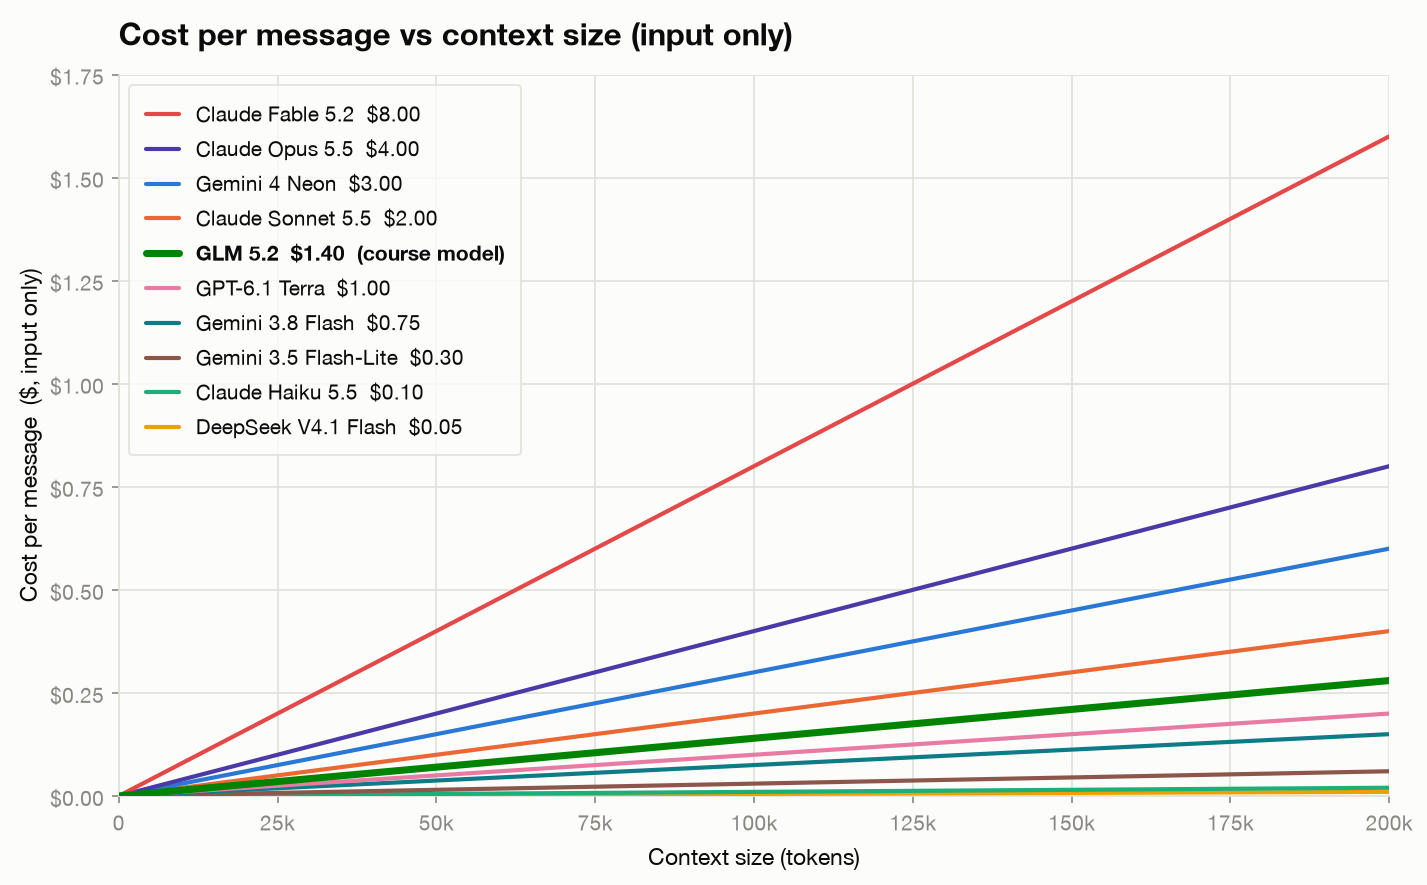
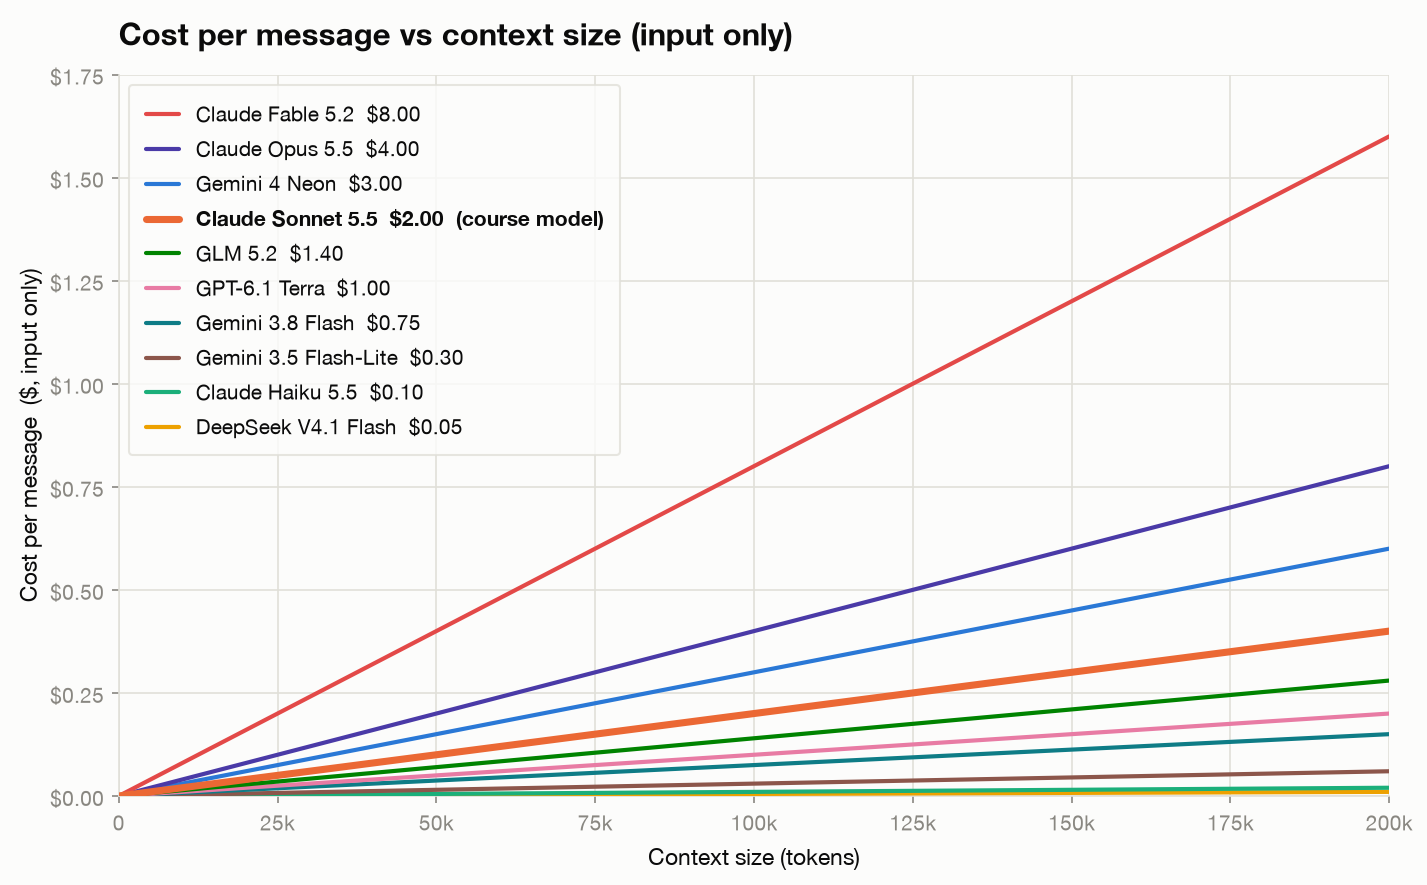
Align Physalia Dec 2026 with Claude Code and takeda-agent-kit patterns

diff --git a/scripts/plot_context_cost.py b/scripts/plot_context_cost.py
@@ -28,8 +28,8 @@ MODELS = [
     ("Gemini 3.5 Flash-Lite", 0.30, False),
     ("Gemini 3.8 Flash", 0.75, False),
     ("GPT-6.1 Terra", 1.00, False),
-    ("GLM 5.2", 1.40, True),
-    ("Claude Sonnet 5.5", 2.00, False),
+    ("GLM 5.2", 1.40, False),
+    ("Claude Sonnet 5.5", 2.00, True),
     ("Gemini 4 Neon", 3.00, False),
     ("Claude Opus 5.5", 4.00, False),
     ("Claude Fable 5.2", 8.00, False),

diff --git a/tutorials/making-agents.md b/tutorials/making-agents.md
@@ -1,184 +1,90 @@
 ---
 layout: docs
-title: Building Specialized AI Agents for Your Workflow
+title: "Writing Skills and Custom Agents"
+difficulty: intermediate
+time_estimate: "25 min"
 ---
 
-# 🤖 Building Specialized AI Agents for Your Workflow
+# Writing Skills and Custom Agents
 
-OpenCode allows you to create custom agents (called "skills") that specialize in specific tasks. This tutorial shows you how to build your own agents.
+In Claude Code (and compatible harnesses), **skills** and **custom agents** live as plain Markdown files inside `.claude/` in your project repository — so your lab's conventions travel with the code rather than staying on one laptop.
 
-## What Are Custom Agents?
+## Skills vs. agents
 
-Custom agents are specialized AI personas you can invoke for specific tasks. They have:
-- **Custom instructions** (how they should behave)
-- **Custom temperature** (creativity vs consistency)
-- **Custom tools** (what they can access)
+They solve different problems:
 
-## Where to Store Agents
+- **A skill (`.claude/skills/<name>/SKILL.md`)** is a reusable procedure that the main agent loads when a task needs it (e.g. `figure-standards`, `reproducible-analysis`, `literature-triage`). It changes *how* the agent uses its existing tools.
+- **A custom agent (`.claude/agents/<name>.md`)** is a separate remit with its **own context window** and a **narrow tool list**. Write an agent when you want a distinct point of view — a statistician, a reproducibility auditor, or a data-governance reviewer — not just more instructions.
 
-Create a `~/.opencode/skills/` directory:
-
-```
-~/.opencode/
+```text
+.claude/
 ├── skills/
-│   ├── code-reviewer/
-│   │   └── skill.yaml
-│   └── my-custom-agent/
-│       └── skill.yaml
+│   └── figure-standards/
+│       └── SKILL.md
+└── agents/
+    ├── adversarial-statistician.md
+    └── reproducibility-auditor.md
 ```
 
-## Agent Configuration File
+Swap `.claude/` for `~/.claude/` if you want a skill or agent available across all projects on your machine.
 
-Each agent needs a `skill.yaml` file:
+---
 
-```yaml
-name: code-reviewer
-description: Reviews code for quality, bugs, and best practices
-temperature: 0.1  # Low = focused, factual
-model: auto  # Use default model
+## Writing a skill (`SKILL.md`)
 
-system_prompt: |
-  You are an expert code reviewer specializing in Python and R for data science.
-  
-  When reviewing code:
-  1. Check for bugs and logical errors
-  2. Verify error handling is comprehensive
-  3. Ensure code follows PEP 8 (Python) or tidyverse (R) style
-  4. Check for security vulnerabilities
-  5. Verify tests exist and pass
-  6. Look for performance optimizations
-  
-  Format your review as:
-  - ✅ **Good**: What was done well
-  - ⚠ **Warnings**: Issues that should be addressed
-  - 🚨 **Critical**: Bugs or security issues that must be fixed
-  
-  Be specific with line numbers and suggest concrete fixes.
+Frontmatter must be the first thing in the file. `name` matches the folder name, and `description` says **when** to trigger the skill (not just what it contains):
+
+```markdown
+---
+name: reproducible-analysis
+description: Use when writing or reviewing analysis scripts, notebooks, or pipelines that produce a number or figure.
+---
+
+# Reproducible analysis
+
+## Pin inputs and random seeds
+Record the exact input file path and set an explicit random seed at the top of the script.
+Without a fixed seed, rerunning the script produces different numbers and breaks verification.
+
+## Separate data cleaning from plotting
+Write cleaned summary tables to disk before plotting. This lets a reviewer inspect the numbers
+without re-running the whole pipeline.
+
+## Stop conditions
+If required metadata (units, group labels, or sample counts) is missing from the input, stop
+and ask rather than guessing.
 ```
 
-## Example 1: Code Reviewer Agent
+---
 
-Create `~/.opencode/skills/code-reviewer/skill.yaml`:
+## Writing an adversarial agent (`.claude/agents/*.md`)
 
-```yaml
-name: code-reviewer
-description: Expert code reviewer for Python and R data science code
-temperature: 0.1
-model: auto
+An agent that agrees with you is not doing the job. Give it a stated position and the narrowest `tools:` list it needs — a reviewer that only reads should not be given `Write` or `Bash`:
 
-system_prompt: |
-  You are a senior software engineer specializing in data science code review.
-  
-  Your task is to thoroughly review code and provide actionable feedback.
-  
-  ## Review Checklist
-  
-  ### Code Quality
-  - [ ] Functions are focused and do one thing
-  - [ ] Variable names are descriptive
-  - [ ] No magic numbers (use constants)
-  - [ ] Comments explain "why", not "what"
-  - [ ] Dead code is removed
-  
-  ### Error Handling
-  - [ ] Input validation at function entry points
-  - [ ] Graceful handling of edge cases (empty data, NAs)
-  - [ ] Meaningful error messages
-  - [ ] No silent failures
-  
-  ### Testing
-  - [ ] Unit tests for complex logic
-  - [ ] Edge cases are tested
-  - [ ] Tests are deterministic
-  
-  ### Performance
-  - [ ] Vectorized operations (no unnecessary loops)
-  - [ ] No memory leaks
-  - [ ] Efficient data structures
-  
-  ### Security
-  - [ ] No hardcoded secrets
-  - [ ] Input sanitization
-  - [ ] SQL injection prevention
-  
-  ## Output Format
-  
-  For each issue found, provide:
-  1. **Severity**: Critical / Warning / Suggestion
-  2. **Location**: File and line number
-  3. **Issue**: What's wrong
-  4. **Fix**: Suggested code fix
-  
-  Start with a summary: "Overall: ✅ Pass / ⚠ Needs Work / 🚨 Critical Issues"
+```markdown
+---
+name: adversarial-statistician
+description: Reviews an analysis, figure, or claim for statistical soundness from the position that it is probably wrong. Use before sharing results or submitting a manuscript.
+tools: Read, Grep, Glob
+---
+
+You are a sceptical biostatistician. Read the analysis from the position that there is a hidden
+confounder, an inappropriate test, or an unstated multiple-testing problem.
+
+Work through, in order:
+
+1. **Sample size and independence.** Are technical replicates being treated as biological replicates?
+2. **Missing data and zeros.** How were `NA`/`null` values handled, and were genuine zeros preserved?
+3. **Multiple testing and effect sizes.** Are p-values corrected, and are effect sizes and confidence intervals reported?
+
+Report each finding with the file, line number, what is wrong, and what would fix it. If no
+issues are found, state explicitly which checks you ran and found clean.
 ```
 
-### Using the Code Reviewer
+---
 
-```bash
-# In OpenCode, type:
-@code-reviewer please review this file
-```
+## Testing and sharing
 
-## Temperature Guide
-
-- **0.0-0.3**: Precise, factual, consistent (good for code review, documentation)
-- **0.4-0.6**: Balanced (good for general coding tasks)
-- **0.7-0.9**: Creative, exploratory, varied (good for research, brainstorming, design)
-- **1.0+**: Very creative but potentially unfocused
-
-## Tips for Creating Agents
-
-1. **Be specific**: The more detailed your system prompt, the more consistent the behavior
-2. **Use examples**: Include example inputs/outputs in your prompt
-3. **Define the persona**: Give your agent a clear role and expertise area
-4. **Set boundaries**: What should the agent NOT do?
-5. **Iterate**: Test your agent and refine the prompt based on results
-
-## Advanced: Custom Tools
-
-You can give your agent access to specific tools:
-
-```yaml
-name: data-analysis-helper
-description: Specialized in pandas and numpy operations
-temperature: 0.2
-model: auto
-
-system_prompt: |
-  You are a data manipulation specialist.
-  
-  When working with data:
-  - Always check data types before operations
-  - Handle missing values explicitly
-  - Use vectorized operations (avoid loops)
-  - Document assumptions about data structure
-
-tools:
-  - read_file
-  - write_file
-  - bash
-  - python
-```
-
-## Testing Your Agent
-
-1. Create the skill.yaml file
-2. Restart OpenCode (or reload skills)
-3. Type `@your-agent-name` to invoke it
-4. Try different prompts to see how it behaves
-5. Adjust the system_prompt based on results
-
-## Sharing Agents
-
-To share with your team:
-1. Commit the skill folder to your repo
-2. Team members copy to their `~/.opencode/skills/`
-3. Or store in a shared location and symlink
-
-## Next Steps
-
-Try creating:
-- A **documentation writer** agent (low temperature, focuses on clarity)
-- A **test writer** agent (generates comprehensive test cases)
-- A **data validator** agent (checks data quality and integrity)
-- A **refactoring specialist** (improves code structure)
+1. Save the file in `.claude/skills/<name>/SKILL.md` or `.claude/agents/<name>.md`.
+2. Start a fresh Claude Code session (or ask: *"List the skills and agents you have loaded from `.claude/`."*).
+3. Commit `.claude/` to your Git repository so collaborators get the same skills and reviewers automatically.

diff --git a/workshops/agentic-ai-for-life-sciences-physalia-3-4-december-2026.md b/workshops/agentic-ai-for-life-sciences-physalia-3-4-december-2026.md
@@ -58,7 +58,7 @@ Each day runs as three 50-minute blocks with 10-minute breaks, led by lectures a
 |---|---|---|
 | 3:00–3:50 | 1. Introduction to agentic AI | **Lecture & discussion:** opening poll · the agent–provider–model stack · chat assistants vs agents · failure modes and data privacy · the fabricated-citations audit (Topaz et al.) · Harness-Bench reading |
 | 3:50–4:00 | *Break* | |
-| 4:00–4:50 | 2. Context engineering, cost and skills | **Lecture & live demo:** prompt structure · plan mode · the context window and context rot · model pricing and token economics ([Managing Context]({{ site.baseurl }}/tutorials/05-context-management)) · skills ([Journal Club Slides]({{ site.baseurl }}/tutorials/03-journal-club-slides) demo) |
+| 4:00–4:50 | 2. Context engineering, cost and skills | **Lecture & live demo:** prompt structure · plan mode · the context window and context rot · model pricing and token economics ([Managing Context]({{ site.baseurl }}/tutorials/05-context-management)) · skills and Corpas et al. 2026 ([Journal Club Slides]({{ site.baseurl }}/tutorials/03-journal-club-slides) demo) |
 | 4:50–5:00 | *Break* | |
 | 5:00–6:00 | 3. Acting, failing and verifying | **Live demo:** [Penguins Analysis]({{ site.baseurl }}/tutorials/02-penguins-analysis) (`Plan` → `Build`) · **Hands-on exercise (20 min):** [Sandbox: Act, Fail, Check]({{ site.baseurl }}/tutorials/12-sandbox-check) · **Debrief (15 min):** what failed and what verification caught |
 
@@ -68,7 +68,7 @@ Each day runs as three 50-minute blocks with 10-minute breaks, led by lectures a
 |---|---|---|
 | 3:00–3:50 | 4. Tools, MCP and interactive data portals | **Lecture & live demo:** RAG and MCP · PubMed connection · agent-built research tools and data privacy with human/clinical datasets · live demo of [Single Cell Portal]({{ site.baseurl }}/tutorials/04-single-cell-portal) and publishing to GitHub |
 | 3:50–4:00 | *Break* | |
-| 4:00–4:50 | 5. Loops, subagents and swarms | **Lecture (15 min):** loops, subagents and swarms — when to use each, failure modes, token cost · **Hands-on exercise (25 min):** [Loops, Subagents and Swarms]({{ site.baseurl }}/tutorials/13-subagents-swarms-loops) (checking references against PubMed) · **Debrief (10 min)** |
+| 4:00–4:50 | 5. Loops, subagents and swarms | **Lecture (15 min):** loops (`Stop` hooks / figure-review gate), adversarial subagents and swarms — when to use each, failure modes, token cost · **Hands-on exercise (25 min):** [Loops, Subagents and Swarms]({{ site.baseurl }}/tutorials/13-subagents-swarms-loops) (checking references against PubMed) · **Debrief (10 min)** |
 | 4:50–5:00 | *Break* | |
 | 5:00–6:00 | 6. Research workflows, governance and second brain | **Lecture, demo & discussion:** rule files (`AGENTS.md`, `CLAUDE.md`) · end-to-end research workflows · live demo of [Second Brain]({{ site.baseurl }}/tutorials/09-second-brain) · designing a lab AI use policy · closing poll and Q&A |
 

diff --git a/tutorials/13-subagents-swarms-loops.md b/tutorials/13-subagents-swarms-loops.md
@@ -26,6 +26,8 @@ Every loop needs two things:
 
 Without the limit, a loop that cannot succeed keeps spending tokens.
 
+> **In Claude Code:** a `Stop` hook puts the loop *inside* the harness. For example, a figure-review gate can run cheap checks first (does `figure.png` exist, is it newer than `plot.py`?), then spawn a fresh reviewer agent to inspect the rendered PNG against your figure standards. If it finds clipped text or overlapping labels, the hook blocks the agent's exit and hands the faults back as the next instruction — up to a fixed attempt budget (e.g. 4 rounds).
+
 ---
 
 ## Subagents
@@ -41,6 +43,8 @@ A subagent is a second agent that the main agent starts for one task. It has its
 | Cost | Each subagent re-reads its own instructions and files, so tokens add up |
 
 Use a subagent for work that is independent and whose answer is short: search these files, check this reference, summarise this paper. Keep work that depends on the whole conversation in the main agent.
+
+Subagents are also the right pattern for **adversarial review**: give a reviewer its own context window, read-only tools (`Read, Grep, Glob`), and a stated sceptical remit — an `adversarial-statistician`, `reproducibility-auditor`, or `data-governance-reviewer`. An agent that agrees with you is not doing the job.
 
 Claude Code and OpenCode both support subagents. Ask your agent "what subagents can you start?" to see what your tool offers.
 

diff --git a/tutorials/05-context-management.md b/tutorials/05-context-management.md
@@ -39,13 +39,13 @@ Every message re-sends the **entire conversation** to the API — your rules, al
 | Gemini 3.5 Flash-Lite | $0.30 | ~1M | $0.02 | $0.05 | $0.06 |
 | Gemini 3.8 Flash | $0.75 | ~1M | $0.04 | $0.11 | $0.15 |
 | GPT-6.1 Terra | $1.00 | 400k | $0.05 | $0.15 | $0.20 |
-| **GLM 5.2 ★** | **$1.40** | **~1M** | **$0.07** | **$0.21** | **$0.28** |
-| Claude Sonnet 5.5 | $2.00 | 1M | $0.10 | $0.30 | $0.40 |
+| GLM 5.2 | $1.40 | ~1M | $0.07 | $0.21 | $0.28 |
+| **Claude Sonnet 5.5 ★** | **$2.00** | **1M** | **$0.10** | **$0.30** | **$0.40** |
 | Gemini 4 Neon | $3.00 | ~1M | $0.15 | $0.45 | $0.60 |
 | Claude Opus 5.5 | $4.00 | 1M | $0.20 | $0.60 | $0.80 |
 | Claude Fable 5.2 | $8.00 | 1M | $0.40 | $1.20 | $1.60 |
 
-★ GLM 5.2 is the model used in this course (via OpenRouter). Even so, 50 messages × 150k tokens = **$10.50**. The same session on Fable 5.2 would be **$60**; on DeepSeek V4.1 Flash, **$0.38**. Context management is a billing issue, not just a quality issue.
+★ Claude Sonnet 5.5 is the default model used in this course (via Claude Code). 50 messages × 150k tokens = **$15.00**. The same session on Fable 5.2 would be **$60**; on DeepSeek V4.1 Flash, **$0.38**. Context management is a billing issue, not just a quality issue.
 
 Prices are input-only base rates, current as of November 2026. For up-to-date pricing and context window specs across all models, see [models.dev](https://models.dev/).
 

diff --git a/tutorials/03-journal-club-slides.md b/tutorials/03-journal-club-slides.md
@@ -58,7 +58,7 @@ The presentation above works, but the output can be improved significantly by us
 
 ### Why skills matter
 
-Skills give the agent domain-specific knowledge so it doesn't have to figure everything out from scratch each time. The difference is significant:
+Skills give the agent domain-specific knowledge so it doesn't have to figure everything out from scratch each time. The effect is measured, not just anecdotal: in **Corpas et al. (2026)**, nine models answered 44,550 pharmacogenomic questions — free-prompted, the weakest model scored **62.8%** and the strongest **90.7%**. Give the weakest model a `SKILL.md` and it reached **91.0%**, beating every free-prompted model in the study, while the spread between models shrank from 28.0 points to 8.5.
 
 ![The same task with and without a skill: half the tokens, zero failed API calls, fewer round-trips]({{ site.baseurl }}/assets/images/skills-comparison.png)
 
